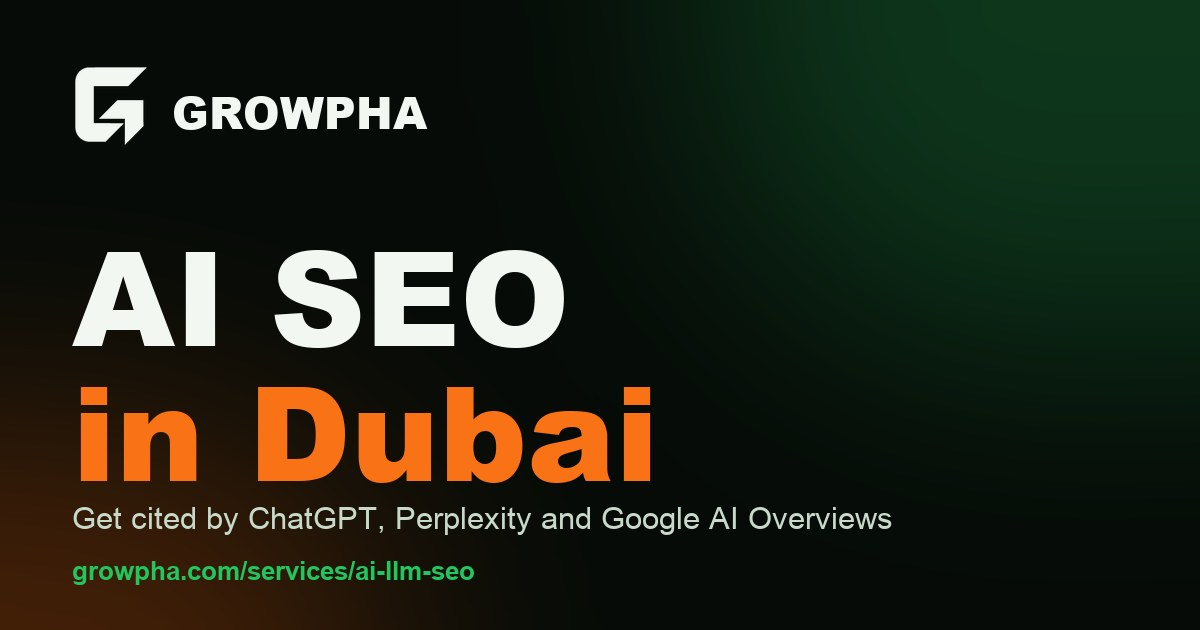
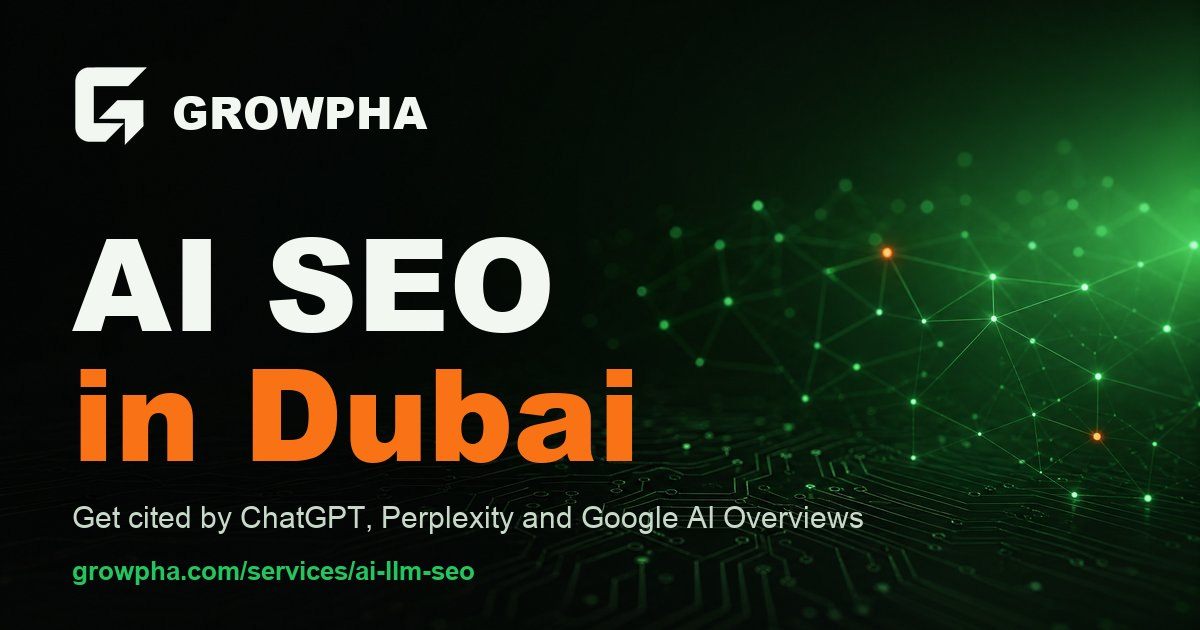
AI / LLM SEO page: add Magnific visuals per image plan (2026-11-02)
Hero: right-column illustration (3:4, eager + fetchpriority high, explicit
dimensions; sits below the buttons on mobile, never before the H1).
Shift section: comparison banner above the table. UAE section: Dubai image above
the checklist. 'Led by the founder': illustrated portrait (160/200px circle,
alt says 'Illustrated portrait') plus name line with About Fadil / LinkedIn.
OG: Magnific background composed with real headline and logo (80 KB JPG), with
og:image width/height/alt. WebPage schema gains primaryImageOfPage.
All images are pre-sized WebP with srcset; none contain text or third-party logos.
Person schema: sameAs adds fadilileri.com, alternateName 'Fadil Ileri'.
ServiceHero and Conducted gained optional image/portrait props (no change for pages that don't use them).

diff --git a/src/utils/schema.ts b/src/utils/schema.ts
@@ -29,9 +29,10 @@ export const person = {
 	'@type': 'Person',
 	'@id': PERSON_ID,
 	name: 'Fadil İleri',
+	alternateName: 'Fadil Ileri',
 	jobTitle: 'Founder, Technical SEO & Digital Growth Strategist',
 	url: `${SITE_URL}/who-am-i/`,
-	sameAs: ['https://www.linkedin.com/in/fadilileri34/'],
+	sameAs: ['https://www.linkedin.com/in/fadilileri34/', 'https://fadilileri.com/'],
 	knowsAbout: [
 		'Generative engine optimisation',
 		'AI search visibility',
